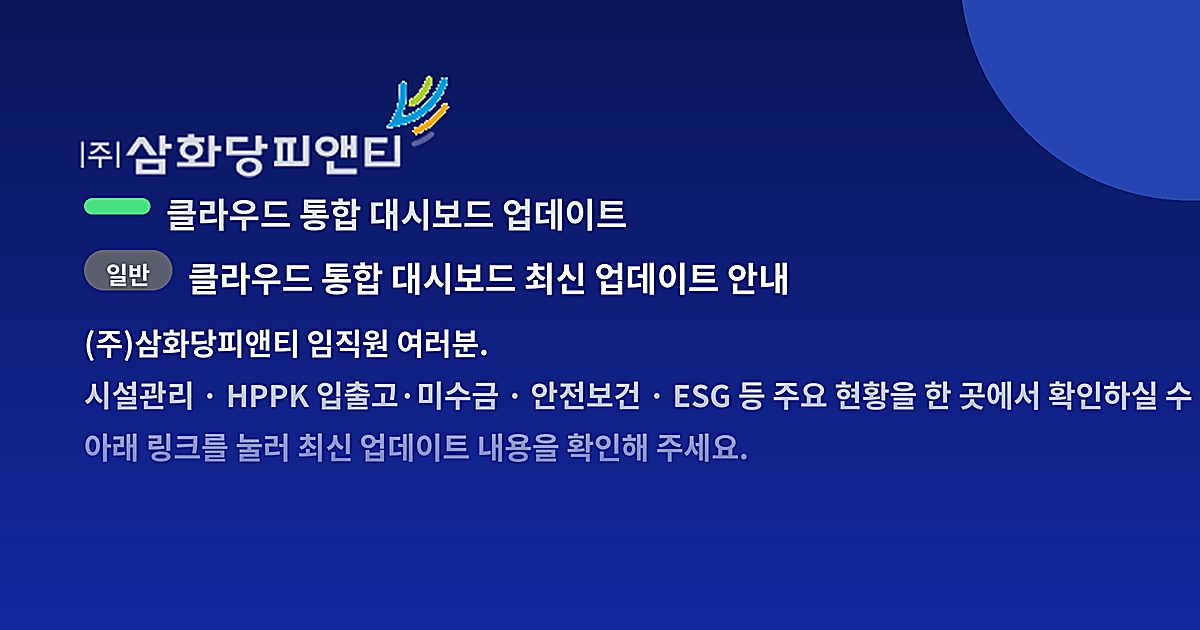
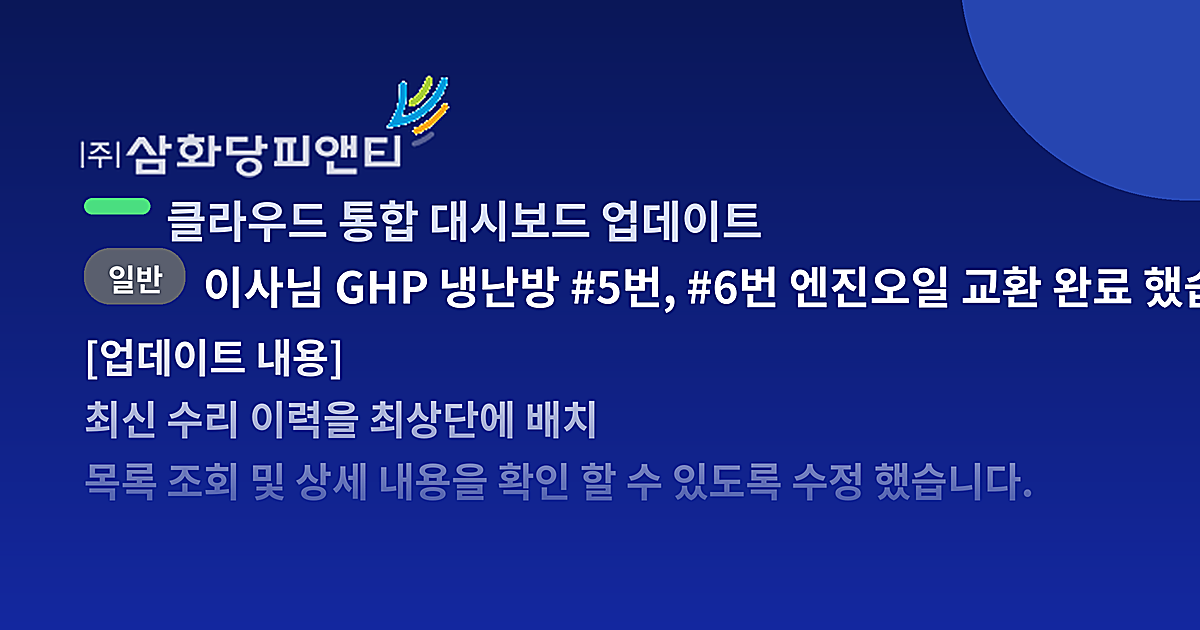
업데이트

Changed region(s): [[0.0617, 0.3016, 1.0, 0.8143]]

diff --git a/share/미리보기_만들기.html b/share/미리보기_만들기.html
@@ -93,21 +93,21 @@ function draw(){
   ctx.textBaseline='top';
   // accent bar + brand
   ctx.fillStyle='#4ADE80';rr(84,198,66,16,8);ctx.fill();
-  ctx.fillStyle='rgb(205,214,240)';ctx.font='700 34px Pretendard, "Malgun Gothic", sans-serif';
-  ctx.fillText('클라우드 통합 대시보드 업데이트',166,186);
-  // chip + title
-  ctx.font='800 24px Pretendard, "Malgun Gothic", sans-serif';
-  const cw=ctx.measureText(cat).width+44;
-  ctx.fillStyle=CATCOL[cat];rr(84,250,cw,40,20);ctx.fill();
-  ctx.fillStyle='#fff';ctx.fillText(cat,84+22,257);
-  ctx.font='800 34px Pretendard, "Malgun Gothic", sans-serif';
-  ctx.fillText(document.getElementById('title').value,84+cw+16,252);
-  // body
+  ctx.fillStyle='rgb(205,214,240)';ctx.font='700 44px Pretendard, "Malgun Gothic", sans-serif';
+  ctx.fillText('클라우드 통합 대시보드 업데이트',166,182);
+  // chip + title (글자 확대)
+  ctx.font='800 30px Pretendard, "Malgun Gothic", sans-serif';
+  const cw=ctx.measureText(cat).width+46;
+  ctx.fillStyle=CATCOL[cat];rr(84,248,cw,56,26);ctx.fill();
+  ctx.fillStyle='#fff';ctx.fillText(cat,84+24,262);
+  ctx.font='800 44px Pretendard, "Malgun Gothic", sans-serif';
+  ctx.fillText(document.getElementById('title').value,84+cw+18,258);
+  // body (글자 확대)
   const shades=['#FFFFFF','rgb(235,240,252)','rgb(225,232,248)','rgb(210,218,240)','rgb(196,206,232)'];
   const lines=document.getElementById('body').value.split('\n').filter(l=>l.trim()!=='').slice(0,5);
-  ctx.font='700 30px Pretendard, "Malgun Gothic", sans-serif';
-  let y=320;
-  lines.forEach((ln,i)=>{ctx.fillStyle=shades[Math.min(i,4)];ctx.fillText(ln,84,y);y+=52;});
+  ctx.font='700 40px Pretendard, "Malgun Gothic", sans-serif';
+  let y=326;
+  lines.forEach((ln,i)=>{ctx.fillStyle=shades[Math.min(i,4)];ctx.fillText(ln,84,y);y+=62;});
   // fade overlay (아래로 갈수록 흐려짐)
   const y0=300,y1=566; const cTop=bgcol(y0),cBot=bgcol(y1);
   const g=ctx.createLinearGradient(0,y0,0,y1);

diff --git a/index.html b/index.html
@@ -13,9 +13,9 @@
      ▶ 카드 이미지는 share/og-image.png 입니다. -->
 <meta property="og:type" content="website" />
 <meta property="og:site_name" content="(주)삼화당피앤티 클라우드 통합 대시보드" />
-<meta property="og:title" content="📢 [삼화당피앤티] 클라우드 통합 대시보드 최신 업데이트 안내" />
-<meta property="og:description" content="(주)삼화당피앤티 임직원 여러분. 시설관리 · HPPK 입출고·미수금 · 안전보건 · ESG 등 주요 현황을 한 곳에서 확인하실 수 있습니다." />
-<meta property="og:image" content="https://kinof2018-create.github.io/HP-IN-MH4/share/og-image.png?v=b2be31193f" />
+<meta property="og:title" content="" />
+<meta property="og:description" content="" />
+<meta property="og:image" content="https://kinof2018-create.github.io/HP-IN-MH4/share/og-image.png?v=194a2a5340" />
 <meta property="og:image:width" content="1200" />
 <meta property="og:image:height" content="630" />
 <meta property="og:url" content="https://kinof2018-create.github.io/HP-IN-MH4/" />

diff --git a/og/generate.py b/og/generate.py
@@ -84,20 +84,20 @@ def draw_image(cat, title, body):
     logo=make_white_logo(); lh=104*SS; lw=int(logo.size[0]*lh/logo.size[1])
     L=logo.resize((lw,lh),Image.LANCZOS); img.paste(L,(80*SS,74*SS),L)
     d.rounded_rectangle([84*SS,198*SS,150*SS,214*SS],radius=8*SS,fill="#4ADE80")
-    d.text((166*SS,188*SS),"클라우드 통합 대시보드 업데이트",font=F(34*SS),fill=(205,214,240))
-    # 카테고리 칩 + 제목
+    d.text((166*SS,186*SS),"클라우드 통합 대시보드 업데이트",font=F(44*SS),fill=(205,214,240))
+    # 카테고리 칩 + 제목 (글자 확대)
     col=CAT_COLOR.get(cat,"#5A5F6E")
-    cw=int(d.textlength(cat,font=F(24*SS)))+44*SS
-    d.rounded_rectangle([84*SS,250*SS,84*SS+cw,290*SS],radius=20*SS,fill=col)
-    d.text((84*SS+22*SS,256*SS),cat,font=F(24*SS),fill="#FFFFFF")
-    d.text((84*SS+cw+16*SS,252*SS),title,font=F(34*SS),fill="#FFFFFF")
-    # 본문 (아래로 갈수록 페이드)
-    y=320*SS
+    cw=int(d.textlength(cat,font=F(30*SS)))+46*SS
+    d.rounded_rectangle([84*SS,248*SS,84*SS+cw,304*SS],radius=26*SS,fill=col)
+    d.text((84*SS+24*SS,256*SS),cat,font=F(30*SS),fill="#FFFFFF")
+    d.text((84*SS+cw+18*SS,252*SS),title,font=F(44*SS),fill="#FFFFFF")
+    # 본문 (아래로 갈수록 페이드) — 글자 확대
+    y=326*SS
     for i,ln in enumerate(body[:5]):
         shade=[255,(235,240,252),(225,232,248),(210,218,240),(196,206,232)][min(i,4)]
         fill=(255,255,255) if shade==255 else shade
-        d.text((84*SS,y),ln,font=F(30*SS),fill=fill)
-        y+=52*SS
+        d.text((84*SS,y),ln,font=F(40*SS),fill=fill)
+        y+=62*SS
     # 페이드 음영
     arr=np.asarray(img).astype(np.float32)
     y0,y1=300*SS,566*SS
@@ -112,8 +112,10 @@ def draw_image(cat, title, body):
 def update_index(title, body):
     if not os.path.exists(INDEX): return
     s=open(INDEX,encoding="utf-8").read()
-    og_title = html.escape("📢 [삼화당피앤티] "+title, quote=True)
-    og_desc  = html.escape(" ".join(body[:2])[:120], quote=True)
+    # 카톡 카드에서 이미지 아래에 뜨는 제목/설명 문구를 없애기 위해 비워 둔다
+    # (모든 정보는 위의 이미지 안에 크게 표시됨 · 도메인 줄은 카톡이 자동 표시하여 제거 불가)
+    og_title = ""
+    og_desc  = ""
     # ★ 이미지 캐시 무력화: 이미지가 바뀌면 og:image 주소도 바뀌도록 내용 해시를 ?v= 로 붙임
     ver = hashlib.md5(open(OUT,'rb').read()).hexdigest()[:10]
     mimg = re.search(r'<meta property="og:image" content="([^"]*)"', s)
